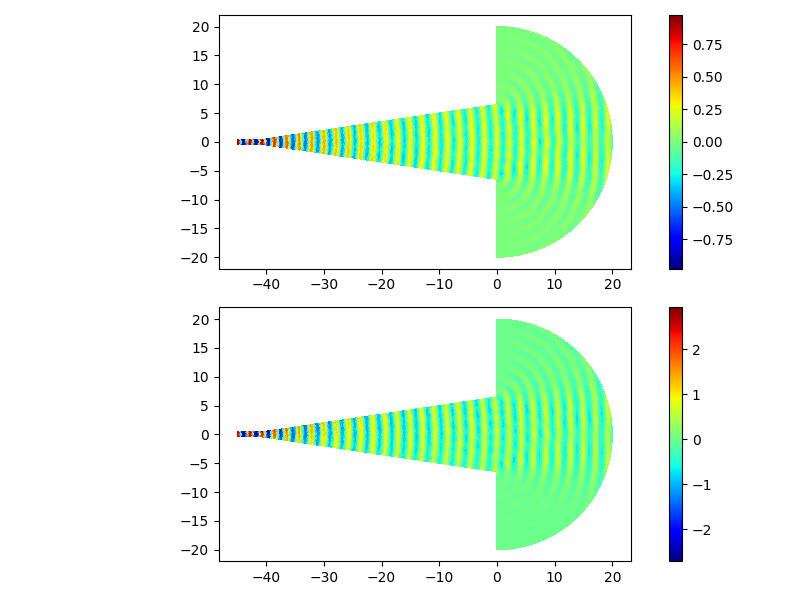
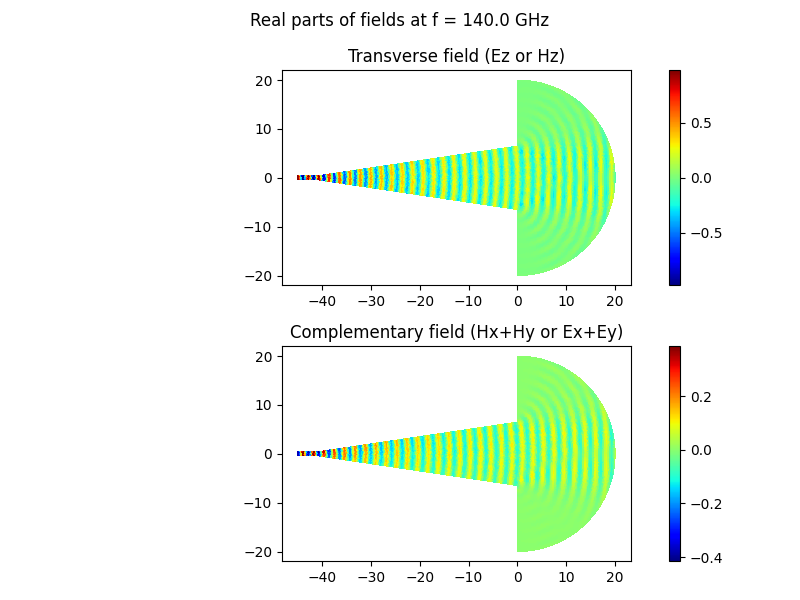
extended horn example

diff --git a/examples/horn/horn_fem.py b/examples/horn/horn_fem.py
@@ -3,7 +3,6 @@ import skfem
 from helmi import Helmholtz
 from skfem.visuals.matplotlib import plot
 from scipy.constants import epsilon_0, mu_0
-import math
 import matplotlib.pyplot as mplt
 from timeit import default_timer as timer
 import horn_mesh
@@ -15,8 +14,8 @@ f = 140e9
 n = 1
 eps_r = 1.0
 mu_r = 1.0
+k0 = 2 * np.pi * f * np.sqrt(epsilon_0 * mu_0) * unit
 z0 = np.sqrt(mu_0 / epsilon_0) * unit
-k0 = 2 * math.pi * f * math.sqrt(epsilon_0 * mu_0) * unit
 
 print('Meshing...')
 t1 = timer()
@@ -35,10 +34,12 @@ if plane == 'e':
     # TE; phi=Hz
     alpha = 1 / eps_r
     beta = -1 * k0 ** 2 * mu_r
+    coeff_complementary = -1 * z0 / k0 * alpha
 else:
     # TM; phi=Ez
     alpha = 1 / mu_r
     beta = -1 * k0 ** 2 * eps_r
+    coeff_complementary = 1 / z0 / k0 * alpha
     fem.assemble_boundaries_dirichlet(value={'bound_ymin': 0, 'bound_ymax': 0})
 
 fem.assemble_subdomains(alpha={'air': alpha}, beta={'air': beta})
@@ -82,34 +83,39 @@ phi_feed = fem.phi[fem.basis.get_dofs('bound_feed')][i_feed_y0]
 r = phi_feed / 1.0 - 1
 print(f'r = {np.abs(r) ** 2} = {20 * np.log10(np.abs(r)):.1f} dB')
 
-c = k0 * z0 * mu_r
-hx_re = -1 / c * fem.basis.project(fem.basis.interpolate(fem.phi_im).grad[1])
-#hx_im = 1 / c * fem.basis.project(fem.basis.interpolate(fem.phi_re).grad[1])
-#hx = hx_re + 1j * hx_im
+# complementary fields (in x-y plane);
+phi_comp_x_re = -1 * coeff_complementary * fem.basis.project(fem.basis.interpolate(fem.phi_im).grad[1])
+#phi_comp_x_im = coeff_complementary * fem.basis.project(fem.basis.interpolate(fem.phi_re).grad[1])
+#phi_comp_x = phi_comp_x_re + 1j * phi_comp_x_im
 
-hy_re = -1 / c * fem.basis.project(fem.basis.interpolate(fem.phi_im).grad[0])
-#hy_im = 1 / c * fem.basis.project(fem.basis.interpolate(fem.phi_re).grad[0])
-#hy = hy_re + 1j * hy_im
+phi_comp_y_re = -1 * coeff_complementary * fem.basis.project(fem.basis.interpolate(fem.phi_im).grad[0])
+#phi_comp_y_im = coeff_complementary * fem.basis.project(fem.basis.interpolate(fem.phi_re).grad[0])
+#phi_comp_y = phi_comp_y_re + 1j * phi_comp_y_im
 
 fig, ax = mplt.subplots(2, 1, figsize=(8, 6))
+fig.suptitle(f'Real parts of fields at f = {f * 1e-9} GHz')
 #draw(mesh, ax=ax[0])
 plot(fem.basis, fem.phi_re, colorbar=True, ax=ax[0])
 ax[0].set_aspect('equal')
+ax[0].set_title('Transverse field (Ez or Hz)')
 #draw(mesh, ax=ax[1])
-plot(fem.basis, hy_re + hx_re, colorbar=True, ax=ax[1])
+plot(fem.basis, phi_comp_x_re + phi_comp_y_re, colorbar=True, ax=ax[1])
 ax[1].set_aspect('equal')
+ax[1].set_title('Complementary field (Hx+Hy or Ex+Ey)')
 fig.tight_layout()
 mplt.savefig(f'./horn_{plane}-plane_fields.png')
 mplt.close()
 
 mplt.figure()
 mplt.polar(theta_farfield, phi_db_farfield)
+mplt.title(f'Radiation pattern ({plane.upper()}-Plane, {f * 1e-9} GHz)')
 mplt.tight_layout()
 mplt.savefig(f'./horn_{plane}-plane_pattern_polar.png')
 mplt.close()
 
 mplt.figure()
 mplt.plot(np.rad2deg(theta_farfield), phi_db_farfield)
+mplt.title(f'Radiation pattern ({plane.upper()}-Plane, {f * 1e-9} GHz)')
 mplt.tight_layout()
 mplt.savefig(f'./horn_{plane}-plane_pattern_rect.png')
 mplt.close()
